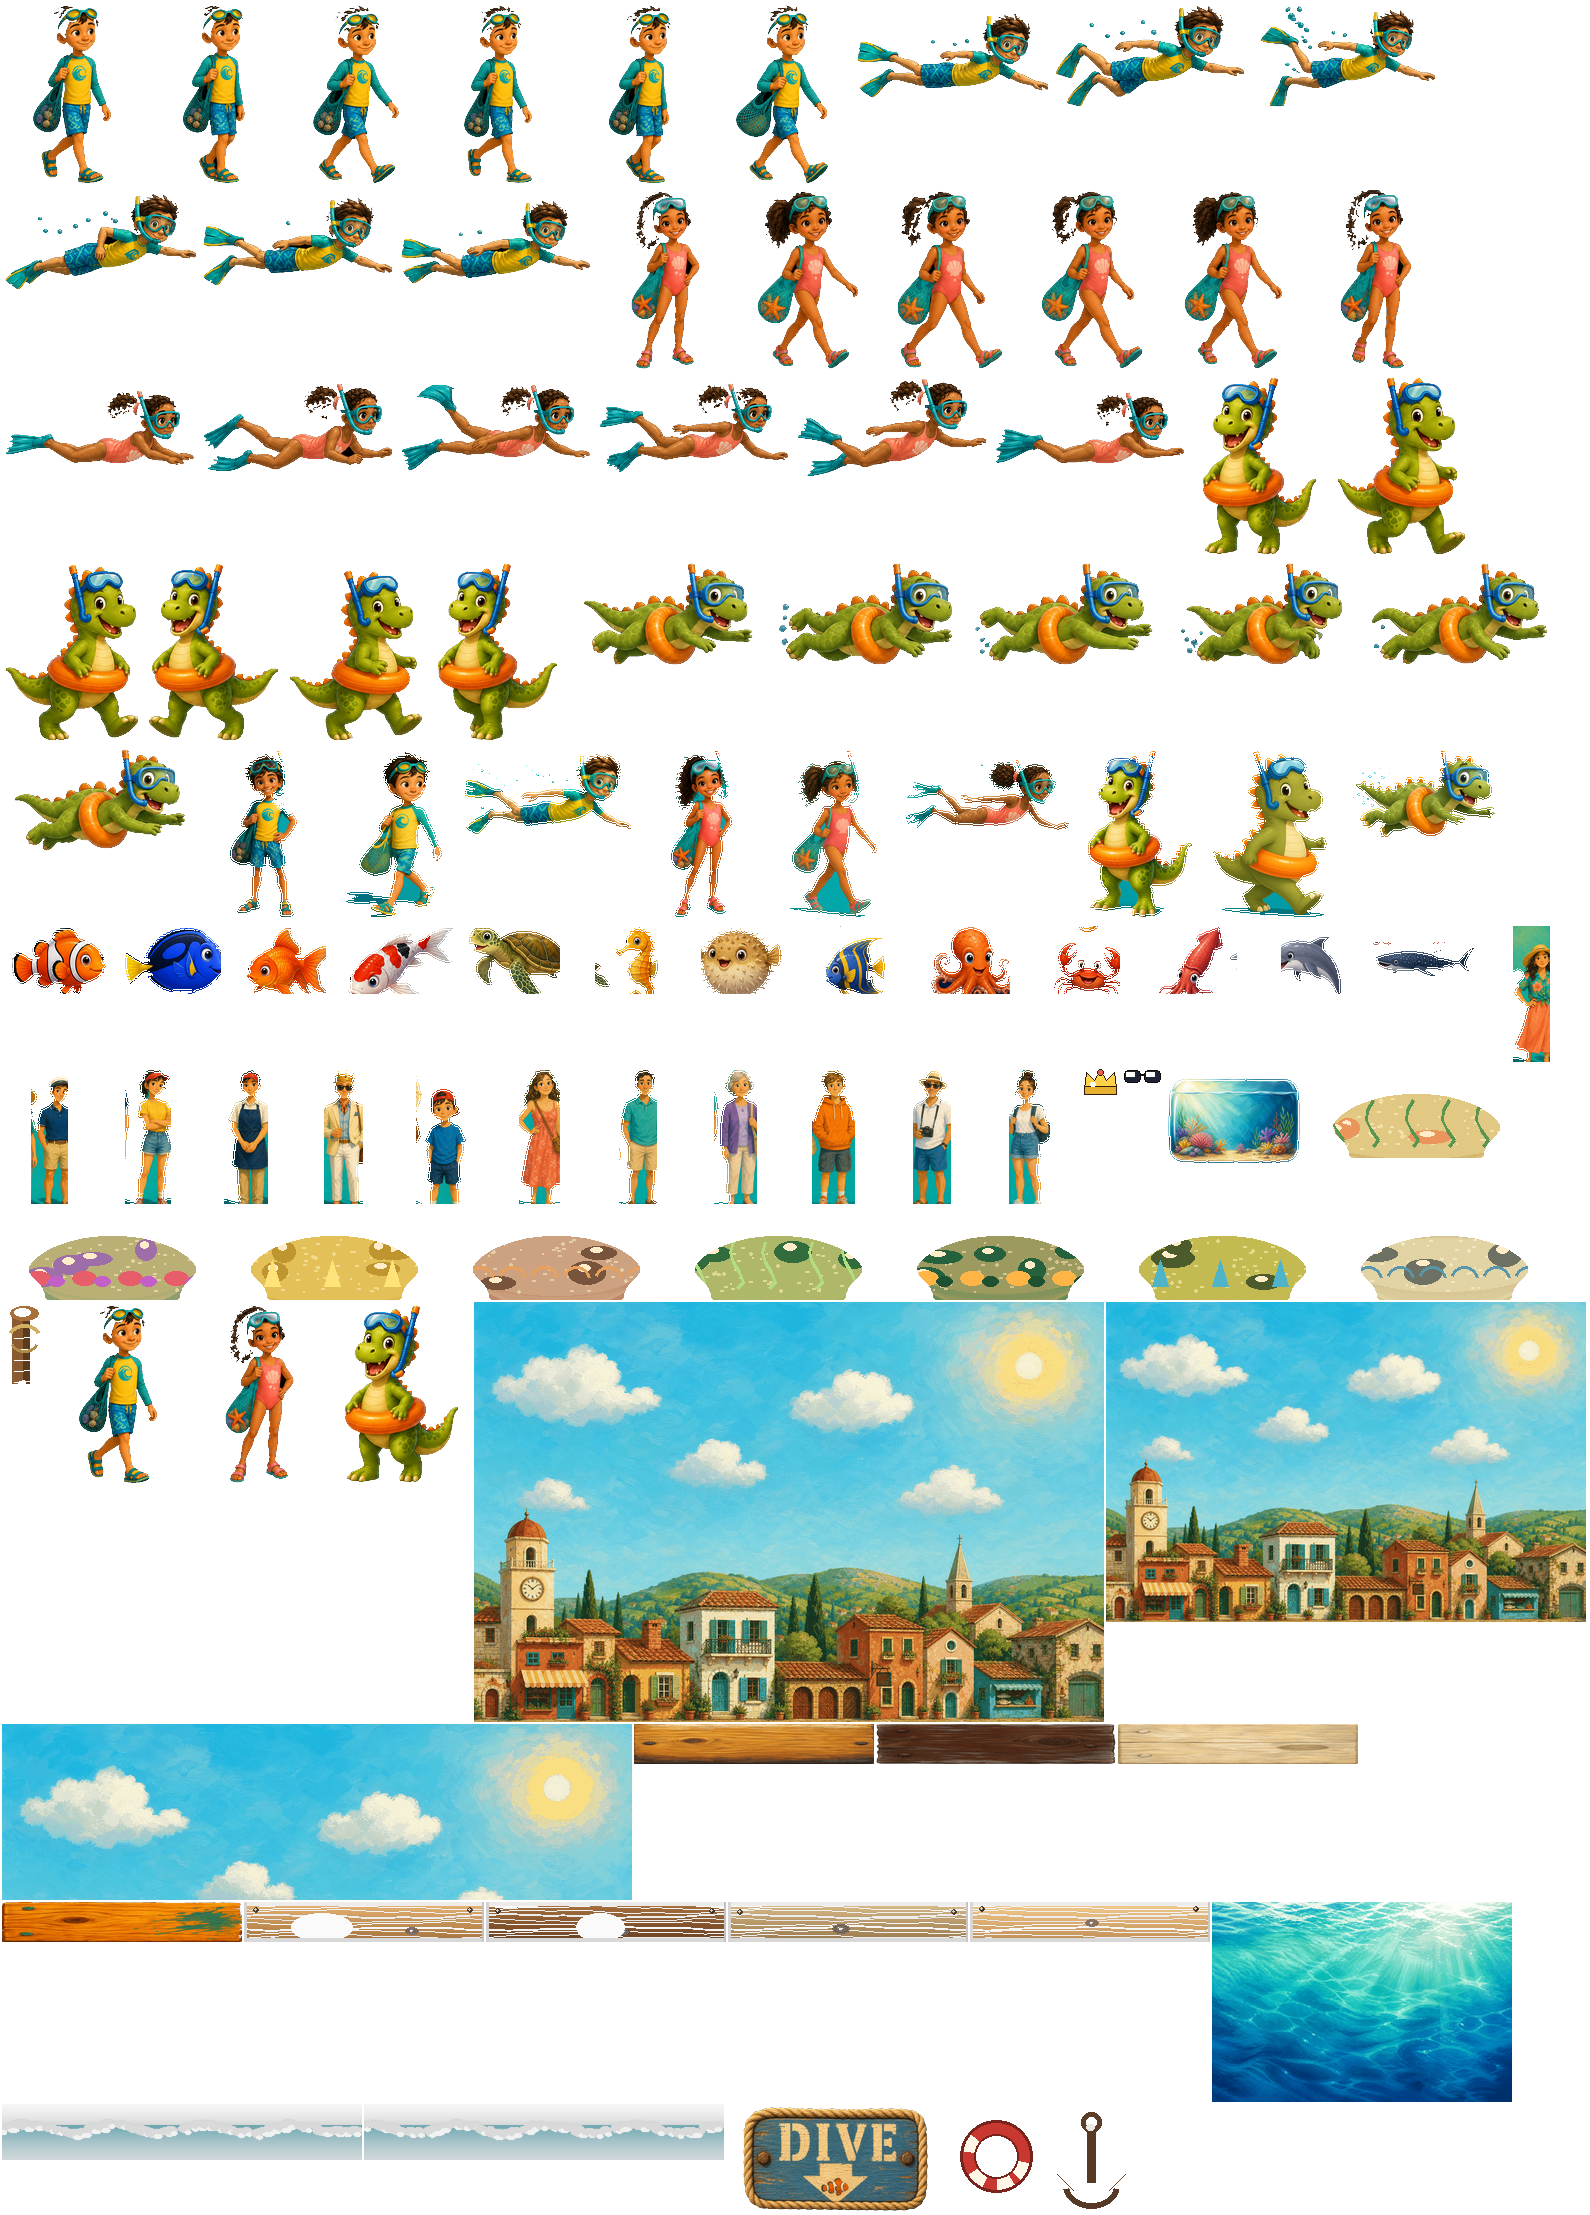
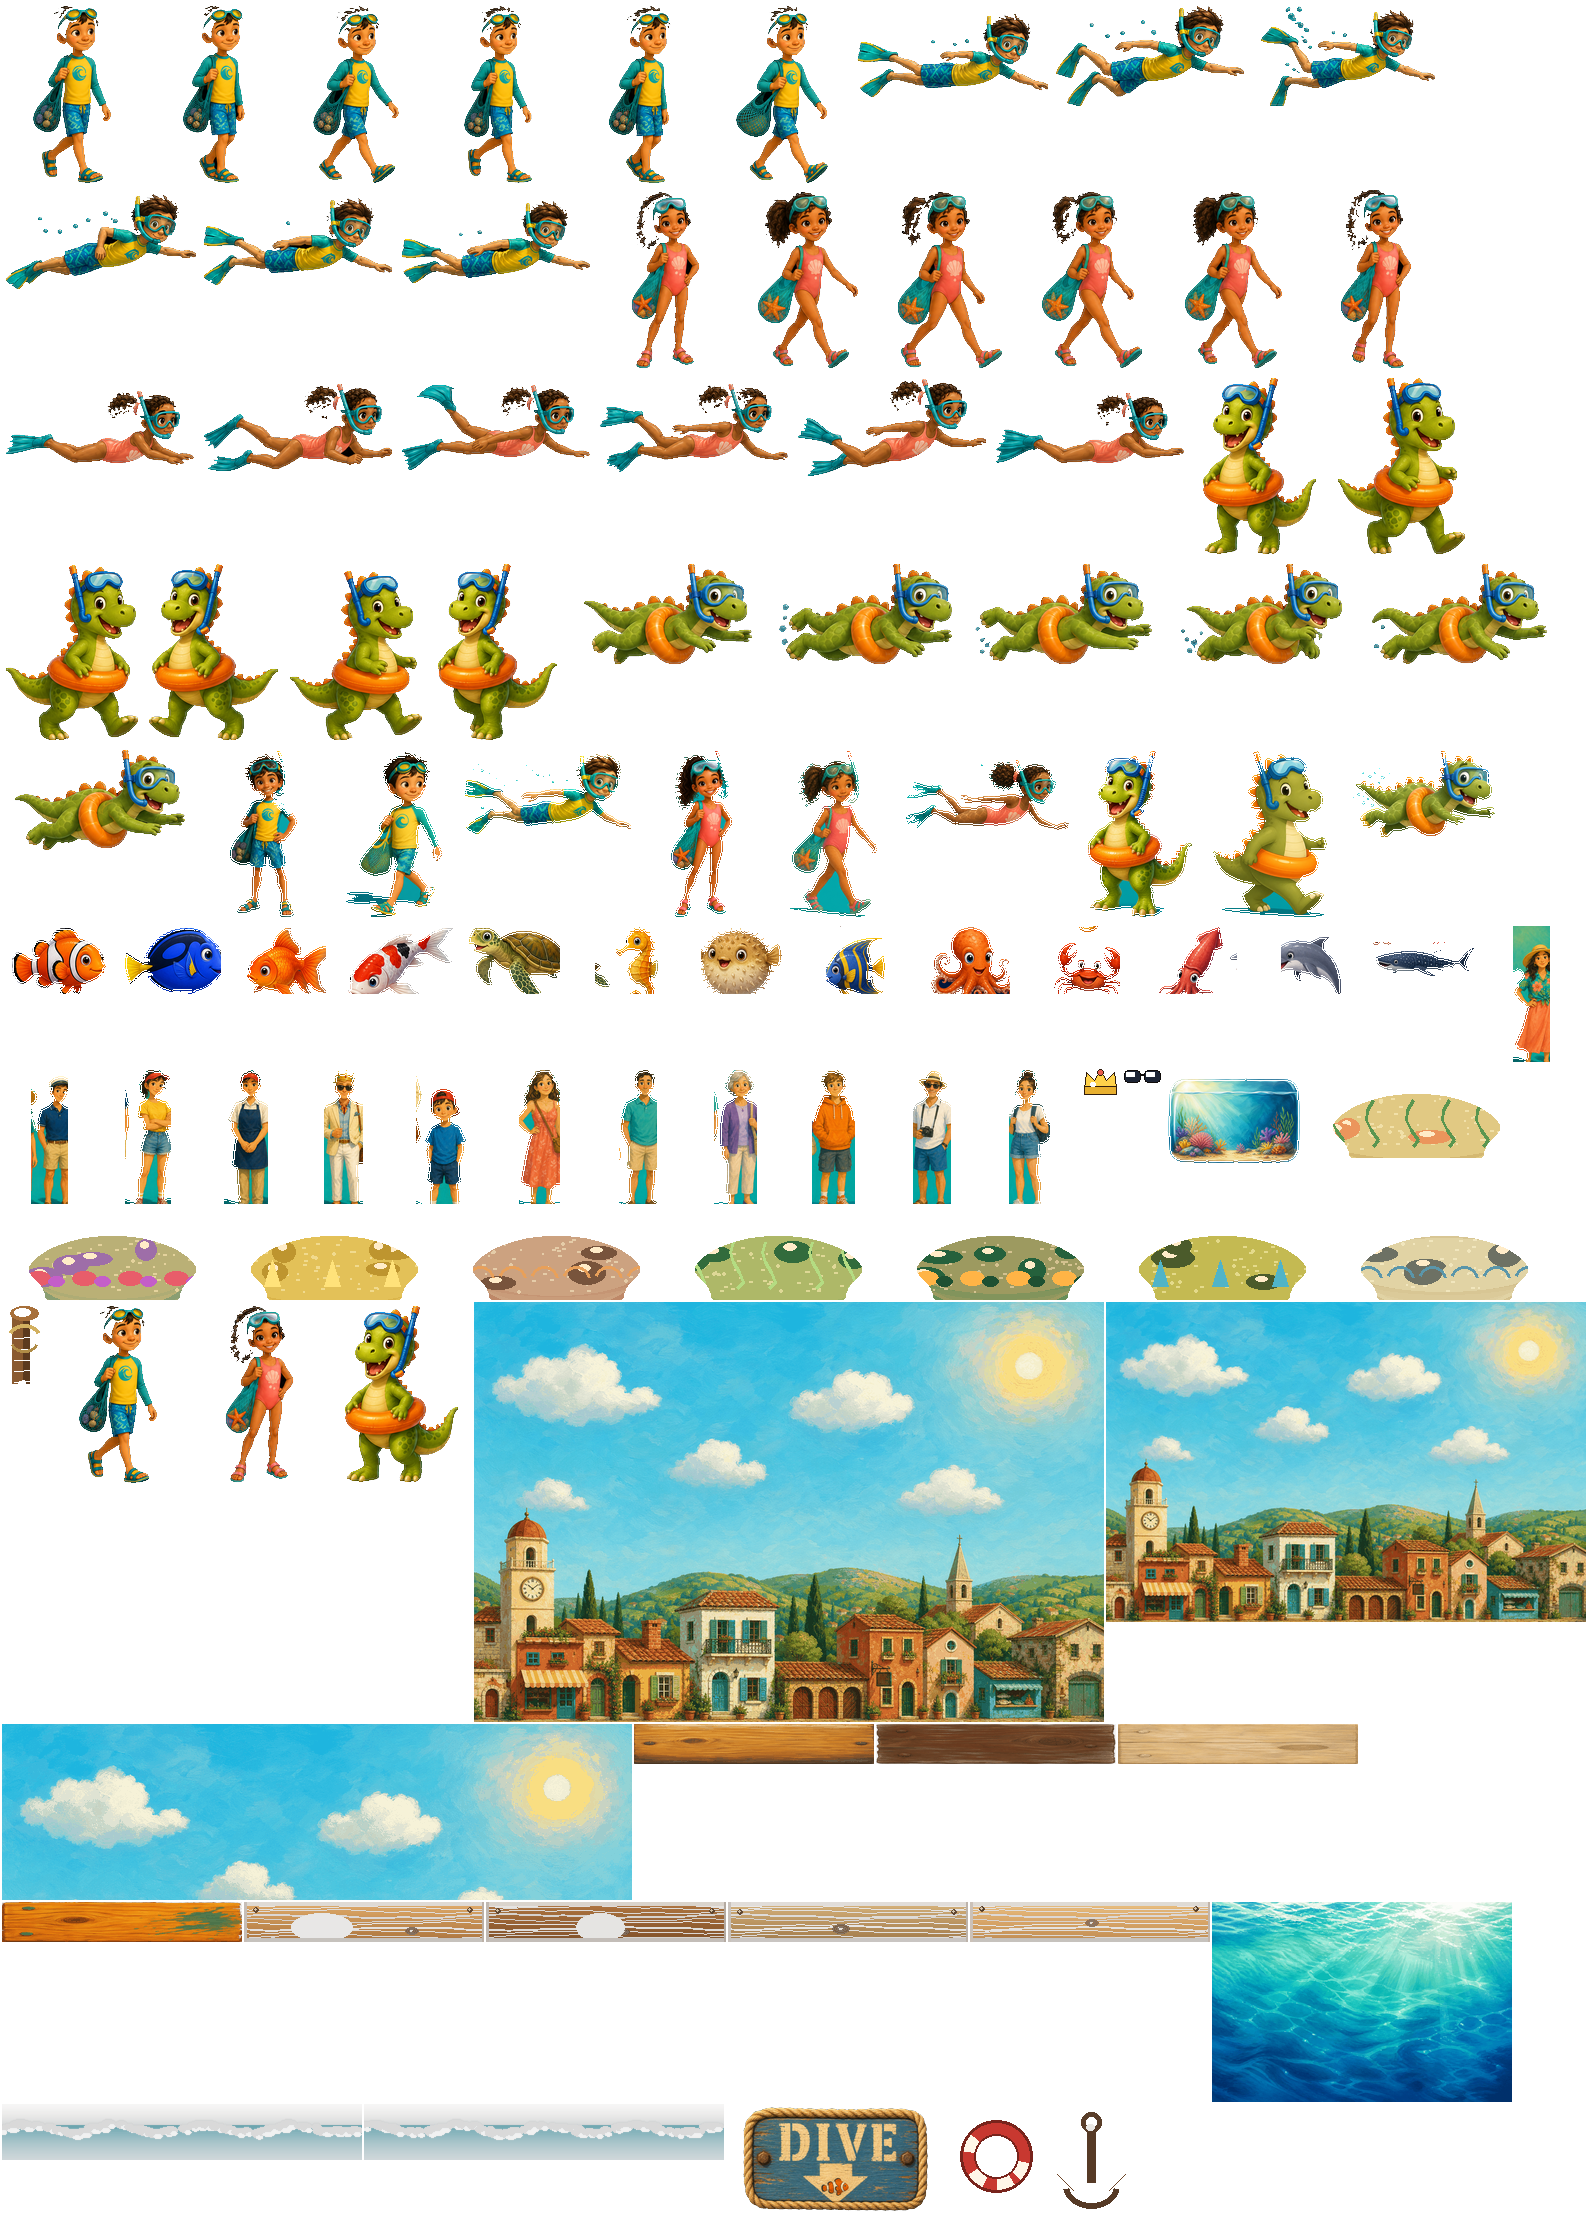
Unify dock plank tones and drop cheap water tiles
Pull outlier boards toward one honey dock family, wash the deck, and stop blitting rectangular water patches that read as cheap tiles on dive.

Changed region(s): [[0.5547, 0.7788, 0.7088, 0.8099], [0.3082, 0.8411, 0.4623, 0.8722]]

diff --git a/game.js b/game.js
@@ -5374,12 +5374,12 @@
     const cell = ATLAS.water;
     if (ART.ready && cell) {
       ctx.save();
-      ctx.globalAlpha = 0.38;
-      for (let n = 0; n < 4; n++) {
-        const jx = x - 60 + hash2(n, 1) * (w * 0.4) + Math.sin(t * 0.18 + n) * 22;
-        const jy = y - 16 + hash2(n, 4) * (h * 0.28);
-        const jw = 320 + hash2(n, 6) * 180;
-        const jh = 160 + hash2(n, 8) * 80;
+      ctx.globalAlpha = 0.16;
+      for (let n = 0; n < 3; n++) {
+        const jx = x - 40 + hash2(n, 1) * (w * 0.28) + Math.sin(t * 0.18 + n) * 18;
+        const jy = y - 10 + hash2(n, 4) * (h * 0.18);
+        const jw = w * (0.55 + hash2(n, 6) * 0.2);
+        const jh = h * (0.55 + hash2(n, 8) * 0.15);
         ctx.drawImage(ART.img, cell.x, cell.y, cell.w, cell.h, jx, jy, jw, jh);
       }
       ctx.restore();
@@ -5523,6 +5523,8 @@
       ctx.fillRect(jx, y, 1.4, h);
     }
     ctx.restore();
+    ctx.fillStyle = "rgba(168, 108, 52, 0.16)";
+    ctx.fillRect(x, y, w, h);
     if (wetY != null) {
       const wet = ctx.createLinearGradient(x, wetY - 72, x, wetY + 18);
       wet.addColorStop(0, "rgba(18,70,90,0)");
@@ -7971,17 +7973,6 @@
       g.addColorStop(1, "#041820");
     }
     ctx.fillStyle = g; ctx.fillRect(0, 0, OCEAN.w, OCEAN.h);
-    if (ATLAS.water && ART.ready) {
-      ctx.save();
-      ctx.globalAlpha = night ? 0.16 : 0.28;
-      const cell = ATLAS.water;
-      for (let n = 0; n < 6; n++) {
-        const jx = hash2(n, 2) * OCEAN.w - 80;
-        const jy = 80 + hash2(n, 5) * 720;
-        ctx.drawImage(ART.img, cell.x, cell.y, cell.w, cell.h, jx, jy, 420 + hash2(n, 8) * 160, 220);
-      }
-      ctx.restore();
-    }
     ctx.save();
     for (let n = 0; n < 70; n++) {
       const px = hash2(n, 1) * OCEAN.w;
@@ -9638,7 +9629,7 @@
     ctx.fillRect(0, H * 0.55, W, H * 0.45);
     ctx.restore();
     drawFoamBand(-10, H - 78, W + 20, state.time);
-    drawPierBoards(-8, H - 64, W + 16, 72, { plank: 18, seg: 96, wetY: H - 52 });
+    drawPierBoards(-8, H - 64, W + 16, 72, { plank: 30, wetY: H - 52 });
     const titlePosts = [[78, 0.78, 21], [268, 1.36, 22], [1012, 0.88, 23], [1218, 1.28, 24]];
     for (const [px, sc, id] of titlePosts) drawPierPost(px + 7, H - 52, sc, id);
     ctx.save(); ctx.globalCompositeOperation = "lighter";

diff --git a/tools/paint-loop55.py b/tools/paint-loop55.py
@@ -347,6 +347,9 @@ def main():
             im = plank_from_paint(painted[i], 240, 40, i)
         else:
             im = paint_plank(5 + i * 13, 240, 40)
+        # One dock family — keep grain, pull outlier boards toward honey pine.
+        warm = Image.new("RGBA", im.size, (196, 132, 68, 48 + (i % 3) * 8))
+        im = Image.alpha_composite(im, warm)
         add(name, im, im.width / 2, im.height / 2)
 
     water_path = SRC / "bay-water-surface.png"
